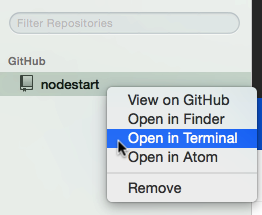
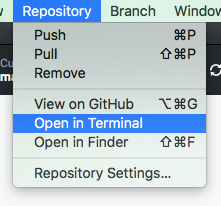
update to new Github Desktop screenshots

diff --git a/course/4/part-1/index.html b/course/4/part-1/index.html
@@ -237,7 +237,7 @@
 
       <p>You're going to the folder where you saved the project from GitHub.</p>
 
-      <p>You can find out by right-clicking on the project in GitHub Desktop, and choosing 'Open in Explorer' (Windows) or 'Open in Finder' (Mac). This will open Explorer or Finder in the right folder, so you can check where it is.</p>
+      <p>Don't remember? No problem. Go to GitHub Desktop, click on 'Repository' and then 'Open in Explorer' (Windows) or 'Open in Finder' (Mac). This will open Explorer or Finder in the right folder, so you can check where it is.</p>
 
       <img class="framed" src="github-open-folder.png">
 
@@ -252,7 +252,7 @@
       <img class="framed" src="ls-in-nodestart-folder.png">
 
       <div class="alert">
-        <p><b>Protip:</b> If you want to get to the right folder more quickly next time, just right click on the project name in Github Desktop and choose 'Open in Terminal' (mac) or 'Open in Git Shell' (windows)</p>
+        <p><b>Protip:</b> If you want to get to the right folder more quickly next time, go to GitHub Desktop, click on Repository and choose 'Open in Terminal' (mac) or 'Open in Git Shell' (windows)</p>
         <img src="open-in-terminal.png">
 
         <p>This will open a Terminal or Command Prompt that is already in the right folder.</p>
